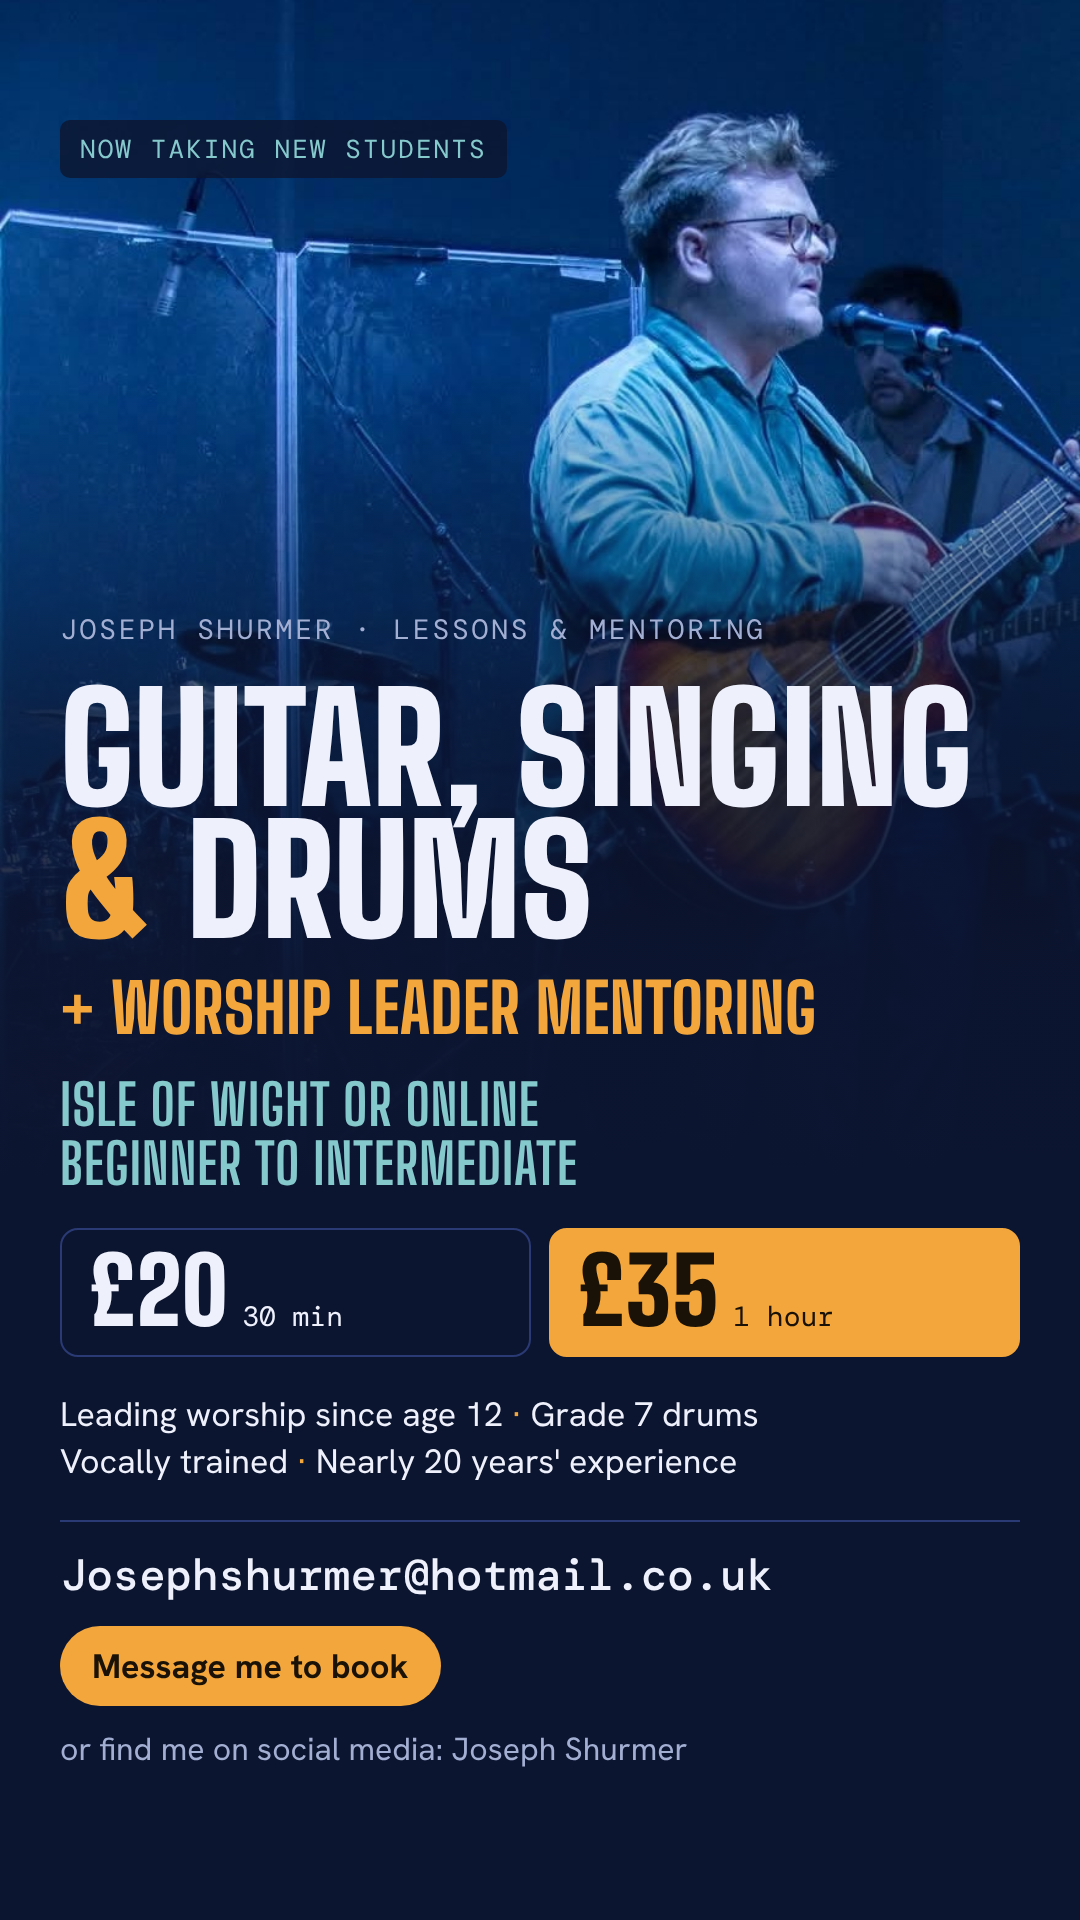
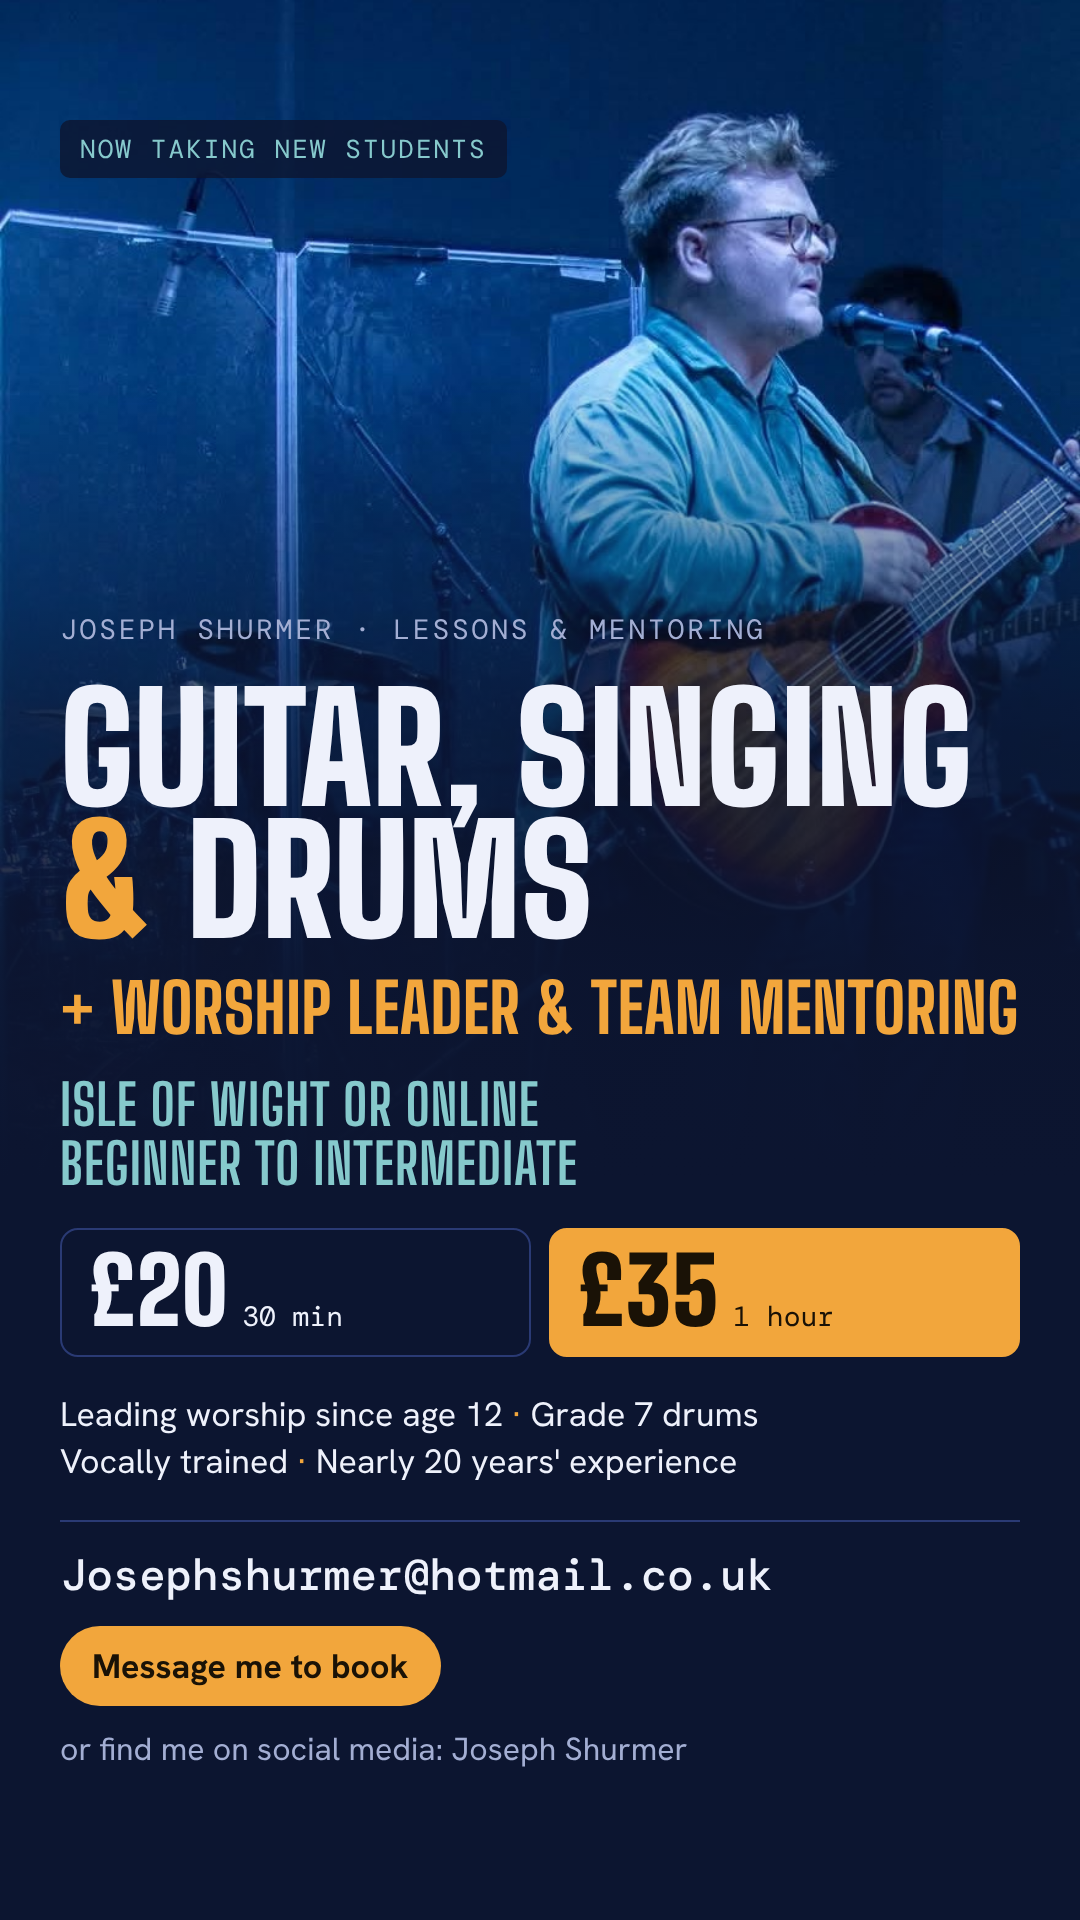
Replace Lionheart with group experience and add worship team sessions
Drop Lionheart from the page and post text. Add group and church
experience (sessions for 10-15 worship leaders, band practices, team
culture, jam sessions) and a new worship team session offer at £150 for
up to 2 hours at a church on the Island. Graphics now say worship
leader & team mentoring.

Claude-Session: https://claude.ai/code/session_01S2CTX3hNLtMansK7k5iX9Y

Changed region(s): [[0.4889, 0.5, 0.9472, 0.5625]]

diff --git a/music-lessons/index.html b/music-lessons/index.html
@@ -225,9 +225,8 @@
   /* Prices */
   .prices {
     display: grid;
-    grid-template-columns: repeat(2, minmax(0, 1fr));
+    grid-template-columns: repeat(3, minmax(0, 1fr));
     gap: 20px;
-    max-width: 760px;
   }
   .price {
     display: grid;
@@ -237,6 +236,8 @@
     border: 1px solid var(--stage-line);
   }
   .price.featured { background: var(--amber); color: var(--on-amber); border-color: var(--amber); }
+  .price.team { border-color: var(--teal); }
+  .price.team .len { color: var(--teal); }
   .price .len { font-family: var(--font-mono); font-size: var(--step--1); letter-spacing: 0.06em; text-transform: uppercase; }
   .price .amount {
     font-family: var(--font-display);
@@ -397,6 +398,7 @@
     .hero-photo { order: -1; }
     .hero-photo img { aspect-ratio: 4 / 3; object-position: 50% 30%; }
     .lineup a { grid-template-columns: minmax(0, 1fr) auto; }
+    .prices { grid-template-columns: minmax(0, 1fr); }
     .lineup .act { grid-column: 1 / -1; }
     section { padding-block: 48px; }
   }
@@ -418,7 +420,7 @@
     <div class="wrap">
       <div class="hero-copy">
         <span class="eyebrow">Now taking new students</span>
-        <h1>Guitar, singing <span class="amp">&amp;</span> drums<span class="plus">+ Worship leader mentoring</span><span class="where">On the Isle of Wight or online</span></h1>
+        <h1>Guitar, singing <span class="amp">&amp;</span> drums<span class="plus">+ Worship leader &amp; team mentoring</span><span class="where">On the Isle of Wight or online</span></h1>
         <p class="lede">Friendly one-to-one lessons and mentoring from someone with <strong>nearly 20 years</strong> of playing, singing and leading worship teams.</p>
         <div class="cta-row">
           <a class="btn" href="mailto:Josephshurmer@hotmail.co.uk?subject=Music%20lessons%20enquiry">Email me about lessons</a>
@@ -442,6 +444,7 @@
         <li><a href="mailto:Josephshurmer@hotmail.co.uk?subject=Singing%20lessons%20enquiry"><span class="act">Singing</span><span class="format">Online or in person</span><span class="go">Get in touch →</span></a></li>
         <li><a href="mailto:Josephshurmer@hotmail.co.uk?subject=Drum%20lessons%20enquiry"><span class="act">Drums</span><span class="format">At your place, on your kit</span><span class="go">Get in touch →</span></a></li>
         <li><a href="mailto:Josephshurmer@hotmail.co.uk?subject=Worship%20leader%20mentoring%20enquiry"><span class="act">Worship leader mentoring</span><span class="format">Online or in person</span><span class="go">Get in touch →</span></a></li>
+        <li><a href="mailto:Josephshurmer@hotmail.co.uk?subject=Worship%20team%20session%20enquiry"><span class="act">Worship team sessions</span><span class="format">At your church, on the Island</span><span class="go">Get in touch →</span></a></li>
       </ul>
       <p class="lineup-foot">Beginners to intermediate. Every session is built around you and the music you love.</p>
     </div>
@@ -452,7 +455,7 @@
       <div class="section-head">
         <span class="eyebrow">Prices</span>
         <h2>Simple pricing</h2>
-        <p>One-to-one, and the same price for everything.</p>
+        <p>One-to-one lessons and mentoring are the same price whatever you learn. Worship team sessions come to you.</p>
       </div>
       <div class="prices">
         <div class="price">
@@ -465,10 +468,16 @@
           <span class="amount">£35</span>
           <span class="per">Time to learn, play through songs and fix the tricky bits</span>
         </div>
+        <div class="price team">
+          <span class="len">Worship team session</span>
+          <span class="amount">£150</span>
+          <span class="per">Up to 2 hours with your band or worship team at your church, including preparation and travel on the Island</span>
+        </div>
       </div>
       <ul class="price-notes">
         <li>Guitar, singing and worship leader mentoring: online or in person on the Isle of Wight.</li>
         <li>Drums: at your place, on your own kit.</li>
+        <li>Worship team sessions: a band practice, workshop or jam session for small or large groups, up to around 15 people.</li>
       </ul>
     </div>
   </section>
@@ -486,12 +495,12 @@
           <h2>Hi, I'm Joseph</h2>
         </div>
         <p>I started leading worship when I was 12, and nearly 20 years on I'm still playing, singing and leading worship teams.</p>
-        <p>I also direct Lionheart, a Christian charity and festival, where I bring in worship teams from around the country and support them behind the scenes. So I've seen worship from both sides: leading from the stage, and hosting and looking after the teams who lead. I bring both into my mentoring.</p>
+        <p>I've run group sessions for worship leaders with 10 to 15 people at a time, and led band practices that build good habits and a healthy team culture. I've supported churches with keeping their worship teams healthy and bringing new people in, and I've run jam sessions for big groups and small ones.</p>
         <p>I've also been teaching and mentoring musicians for a good few years.</p>
         <ul class="creds">
           <li><b>Age 12</b><span>Started leading worship</span></li>
           <li><b>~20 yrs</b><span>Playing, singing and leading worship teams</span></li>
-          <li><b>Lionheart</b><span>Directing a Christian charity and festival, hosting worship teams from around the country</span></li>
+          <li><b>Up to 15</b><span>Worship leaders in a single group session</span></li>
           <li><b>Grade 7</b><span>Drums</span></li>
           <li><b>Trained</b><span>Vocals, with a focus on breathing</span></li>
           <li><b>Self-taught</b><span>Guitar</span></li>
@@ -537,7 +546,7 @@
 
 <footer>
   <div class="wrap">
-    <span>Joseph Shurmer · Guitar, singing &amp; drum lessons · Worship leader mentoring</span>
+    <span>Joseph Shurmer · Guitar, singing &amp; drum lessons · Worship leader &amp; team mentoring</span>
     <span>Isle of Wight &amp; online</span>
   </div>
 </footer>

diff --git a/music-lessons/social/graphics.html b/music-lessons/social/graphics.html
@@ -81,7 +81,7 @@
   <div class="copy">
     <div class="name">Joseph Shurmer · Lessons &amp; mentoring</div>
     <h1>Guitar, singing <span class="amp">&amp;</span> drums</h1>
-    <div class="plus">+ Worship leader mentoring</div>
+    <div class="plus">+ Worship leader &amp; team mentoring</div>
     <div class="where">Isle of Wight or online · Beginner to intermediate</div>
     <div class="prices">
       <div class="price"><b>£20</b><span>30 min</span></div>
@@ -104,7 +104,7 @@
   <div class="copy">
     <div class="name">Joseph Shurmer · Lessons &amp; mentoring</div>
     <h1>Guitar, singing <span class="amp">&amp;</span> drums</h1>
-    <div class="plus">+ Worship leader mentoring</div>
+    <div class="plus">+ Worship leader &amp; team mentoring</div>
     <div class="where">Isle of Wight or online<br>Beginner to intermediate</div>
     <div class="prices">
       <div class="price"><b>£20</b><span>30 min</span></div>

diff --git a/music-lessons/post-copy.md b/music-lessons/post-copy.md
@@ -7,7 +7,7 @@ Swap `[LINK]` for your lesson page link once you've shared it publicly.
 
 ## Facebook (Isle of Wight community groups, your own page)
 
-🎸 Guitar, singing and drum lessons + worship leader mentoring on the Isle of Wight (or online) 🎤🥁
+🎸 Guitar, singing and drum lessons + worship leader & team mentoring on the Isle of Wight (or online) 🎤🥁
 
 Hi everyone, I'm Joseph. I'm taking on new students for:
 
@@ -15,13 +15,15 @@ Hi everyone, I'm Joseph. I'm taking on new students for:
 • Singing, beginner to intermediate
 • Drums, beginner to intermediate (at your place, on your own kit)
 • Worship leader training and mentoring, for new and growing worship leaders
+• Worship team sessions: I can come to your church and run a band practice, workshop or jam session
 
 Guitar, singing and worship leader sessions can be in person on the Island or online.
 
-A bit about me: I started leading worship at 12 and have been playing, singing and leading worship teams for nearly 20 years. I also direct Lionheart, a Christian charity and festival, where I bring in worship teams from around the country and support them behind the scenes, so I've seen worship from the organiser's side as well as the stage. I'm Grade 7 on drums, vocally trained, and I've been teaching and mentoring for a good few years.
+A bit about me: I started leading worship at 12 and have been playing, singing and leading worship teams for nearly 20 years. I've run group sessions for 10 to 15 worship leaders at a time, led band practices that build a healthy team culture, and supported churches with keeping their worship teams healthy and bringing new people in. I'm Grade 7 on drums, vocally trained, and I've been teaching and mentoring for a good few years.
 
 💷 £20 for 30 minutes
 💷 £35 for 1 hour
+💷 £150 for a worship team session at your church (up to 2 hours, including travel on the Island)
 
 Every session is built around you and what you want to work on.
 
@@ -37,14 +39,14 @@ Now taking new students 🎸🎤🥁
 
 Acoustic guitar, singing and drum lessons on the Isle of Wight or online. Beginner to intermediate.
 
-Plus worship leader mentoring.
+Plus worship leader mentoring, and worship team sessions at your church.
 
 ✔ Nearly 20 years playing, singing and leading worship
-✔ Director of Lionheart, a Christian charity and festival hosting worship teams from around the country
+✔ Group sessions for up to 15 worship leaders at a time
 ✔ Grade 7 drums
 ✔ Vocally trained
 
-£20 / 30 min · £35 / hour
+£20 / 30 min · £35 / hour · Worship team sessions £150
 Drum lessons at your place, on your own kit.
 
 DM me or email Josephshurmer@hotmail.co.uk to book. Link in bio.
@@ -55,7 +57,7 @@ DM me or email Josephshurmer@hotmail.co.uk to book. Link in bio.
 
 ## Short version (Nextdoor, WhatsApp groups, comment replies)
 
-Guitar, singing and drum lessons on the Isle of Wight or online, beginner to intermediate, plus worship leader training and mentoring. Nearly 20 years' experience leading worship, Grade 7 drums, vocally trained. £20 / 30 min or £35 / hour. Drums at your place on your own kit. Email Josephshurmer@hotmail.co.uk or message me to book. [LINK]
+Guitar, singing and drum lessons on the Isle of Wight or online, beginner to intermediate, plus worship leader mentoring and worship team sessions at your church. Nearly 20 years' experience leading worship, Grade 7 drums, vocally trained. £20 / 30 min, £35 / hour, or £150 for a worship team session. Drums at your place on your own kit. Email Josephshurmer@hotmail.co.uk or message me to book. [LINK]
 
 ---
 
@@ -80,5 +82,5 @@ I'm now taking new students for guitar, singing, drums and worship leader mentor
 1. Isle of Wight Facebook community groups (town groups and "what's on" groups). Check each group's rules on business posts first; some only allow them on certain days.
 2. Facebook Marketplace under Services, using the feed graphic.
 3. Your Instagram feed plus a story, with the lesson page link in your bio.
-4. Your church noticeboard or newsletter, since people there already know your playing. For the worship leader mentoring, also ask other Island church leaders whether their worship teams would like it.
+4. Your church noticeboard or newsletter, since people there already know your playing. For worship team sessions, message church leaders and worship leaders on the Island directly. A personal message with the page link usually works better than a public post.
 5. School and parent groups if you decide to teach under-18s. Parents will often ask about a DBS check, so it helps to have one.
